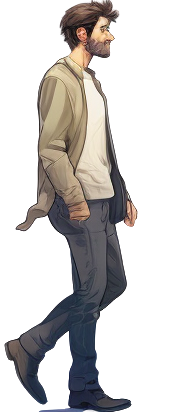
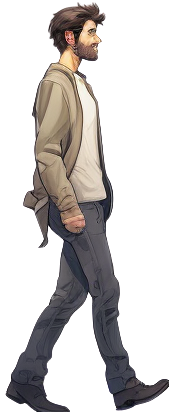
Toggles walk

diff --git a/src/components/GameGravity.vue b/src/components/GameGravity.vue
@@ -1,6 +1,8 @@
 <template>
     <img ref="playerUpForwardA" :src="'/src/assets/images/gravity_player_up_forward_A.png'" :style="{ display: 'none' }">
+    <img ref="playerUpForwardB" :src="'/src/assets/images/gravity_player_up_forward_B.png'" :style="{ display: 'none' }">
     <img ref="playerUpBackwardA" :src="'/src/assets/images/gravity_player_up_backward_A.png'" :style="{ display: 'none' }">
+    <img ref="playerUpBackwardB" :src="'/src/assets/images/gravity_player_up_backward_B.png'" :style="{ display: 'none' }">
     <canvas id="mainCanvas" ref="canvas" :width="dataGameWidth" :height="dataGameHeight"></canvas>
     <canvas id="hiddenCanvas" ref="hiddenCanvas" :style="{display: 'none'}" :width="dataGameWidth" :height="dataGameHeight"></canvas>
 </template>
@@ -10,7 +12,8 @@ const gameWidthDefault = 800;
 const gameHeightDefault = 333;
 const portalWidth = 50;
 const portalHeight = 70;
-const renderPlayerEdges = true;
+const renderPlayerEdges = false;
+const walkTimerDelay = 50;
 
 const player = {
         height: 82,
@@ -24,6 +27,8 @@ const player = {
         touchingLeftWall: false,
         touchingRightWall: false,
         facingForward: true,
+        walkTimer: null,
+        walkPlayerState: 'A',
         image: null,
     };
 
@@ -262,10 +267,11 @@ export default {
         },
 
         changePlayerImage() {
-            if (this.gs.player.facingForward) {
-                this.gs.player.image = this.$refs.playerUpForwardA;
+            let player = this.gs.player;
+            if (player.facingForward) {
+                player.image = (player.walkPlayerState == "A")? this.$refs.playerUpForwardA : this.$refs.playerUpForwardB;
             } else {
-                this.gs.player.image = this.$refs.playerUpBackwardA;
+                player.image = (player.walkPlayerState == "A")? this.$refs.playerUpBackwardA : this.$refs.playerUpBackwardB;
             }
         },
 
@@ -409,12 +415,14 @@ export default {
                     case 'KeyA':
                         this.gs.player.movingLeft = true;
                         this.gs.player.facingForward = false;
+                        this.gs.player.walkTimer = Date.now();
                         this.changePlayerImage();
                         break;
 
                     case 'KeyD':
                         this.gs.player.movingRight = true;
                         this.gs.player.facingForward = true;
+                        this.gs.player.walkTimer = Date.now();
                         this.changePlayerImage();
                         break;
 
@@ -450,10 +458,12 @@ export default {
 
                 case 'KeyA':
                     this.gs.player.movingLeft = false;
+                    this.gs.player.walkTimer = null;
                     break;
 
                 case 'KeyD':
                     this.gs.player.movingRight = false;
+                    this.gs.player.walkTimer = null;
                     break;
 
                 case 'KeyH':
@@ -507,6 +517,12 @@ export default {
         updateGameState() {
 
             let player = this.gs.player;
+            // Update player's walk animation
+            if (player.walkTimer && (Date.now() - player.walkTimer) > walkTimerDelay) {
+                player.walkTimer = Date.now();
+                player.walkPlayerState = player.walkPlayerState === 'A' ? 'B' : 'A';
+                this.changePlayerImage();
+            }
 
             // The player has four adjacent edges, each of which are 3px thick.
             // The edges are green.
